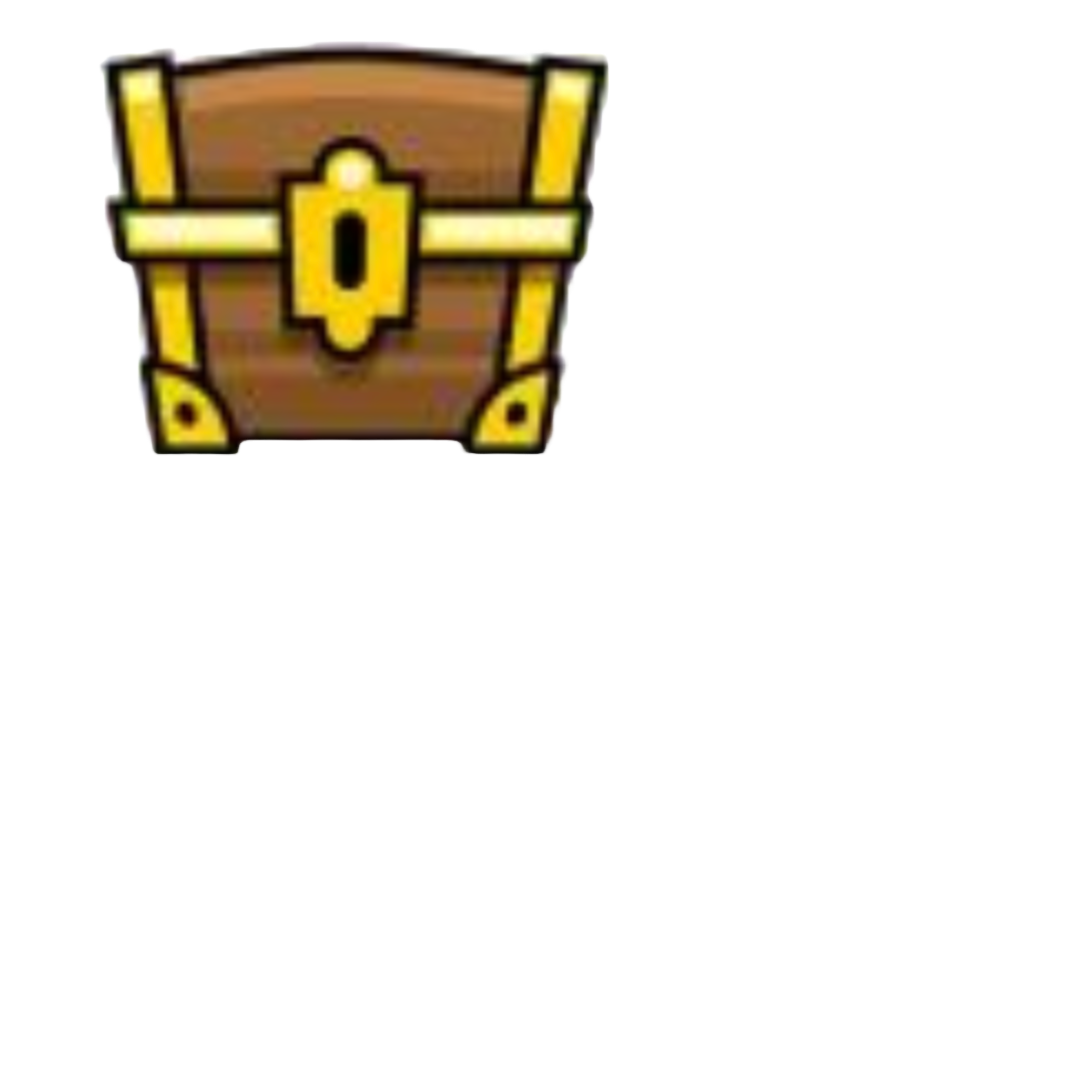
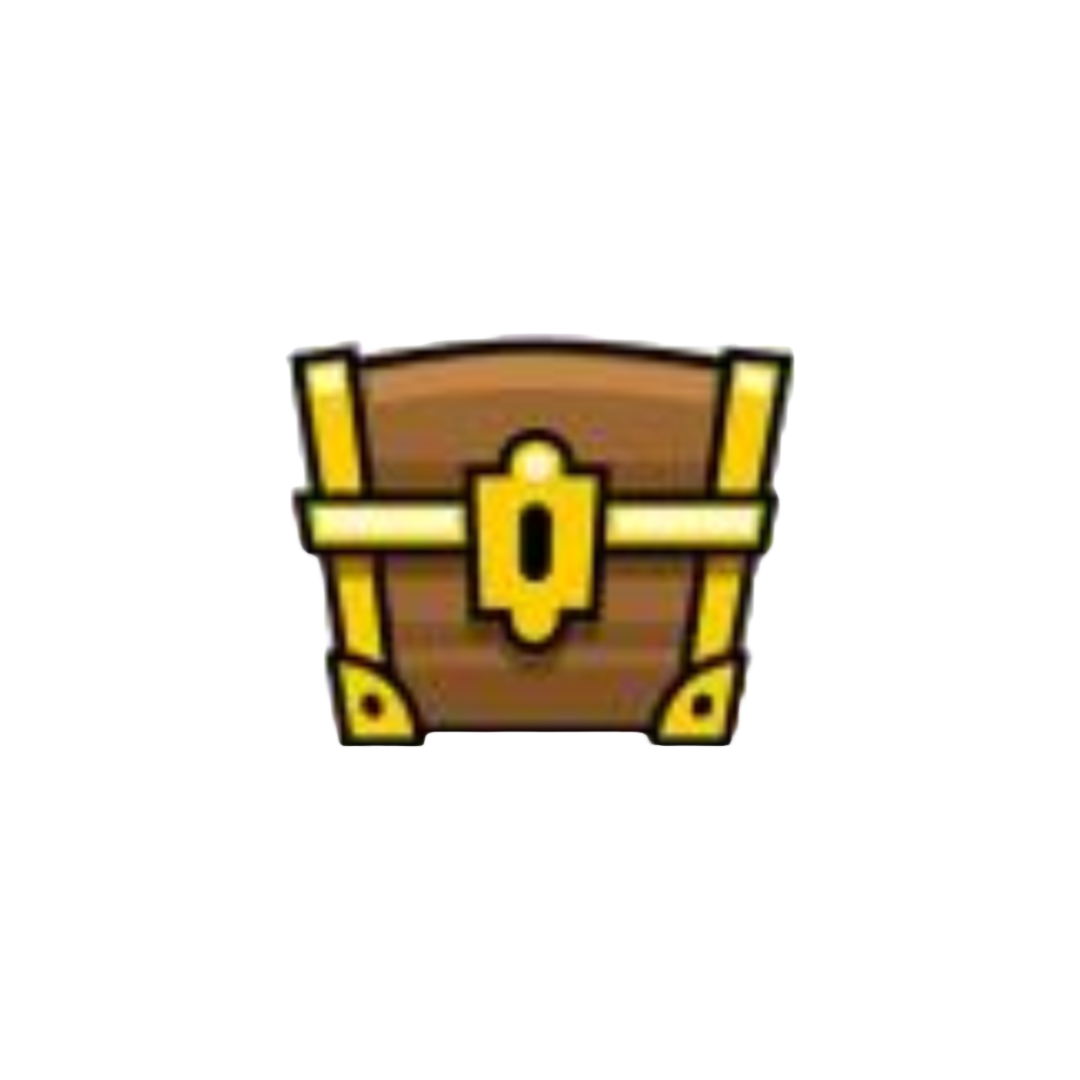
animated the treasure chest fro level 1

Changed region(s): [[0.0917, 0.0306, 0.7333, 0.7028]]

diff --git a/Level1.py b/Level1.py
@@ -1,4 +1,6 @@
 import pygame
+import time
+
 from Button import Button
 from Platform import Platform
 from Player import Player
@@ -21,10 +23,11 @@ class Level1(Level):
         self.image1 = pygame.image.load("Characters/treasure.png")
         self.image1 = pygame.transform.scale(self.image1, (200, 200))
         self.image2 = pygame.image.load("Characters/treasure_open.png")
-        self.image2 = pygame.transform.scale(self.image2, (200, 200))
+        self.image2 = pygame.transform.scale(self.image2, (240, 200))
         self.screen.blit(self.image, (0, 0))
         self.screen.blit(self.image1, (0,0))
         self.screen_state = True #set to True if playing the game
+        self.won = False
 
 
 
@@ -74,11 +77,12 @@ class Level1(Level):
         while running:
             # Draw the background
             if self.screen_state:
+                self.won = False
                 self.screen.blit(self.image, (0, 0))
                 # Draw platforms
                 platforms.draw(self.screen)
                 self.screen.blit(self.treasure.get_surface(), self.treasure.get_rect())
-                self.screen.blit(self.image1, (650, 25))
+                self.screen.blit(self.image1, (620, -20))
 
                 # Draw the player
                 self.screen.blit(self.player.get_surface(), self.player.get_rect())
@@ -91,9 +95,14 @@ class Level1(Level):
                 # Update player with keys and platform group
                 self.player.update([self.up, self.down, self.left, self.right], platforms)
                 if self.player.rect.colliderect(self.treasure.rect):
+                    self.screen.blit(self.image2, (600, -20))
+                    self.won = True
                     self.screen_state = False
 
             else:
+                if self.won:
+                    time.sleep(1)
+                    self.won = False
                 self.screen.blit(self.image_end, (0, 0))
                 self.Game_Over_Buttons.draw()
                 self.Game_Over_Buttons1.draw()
